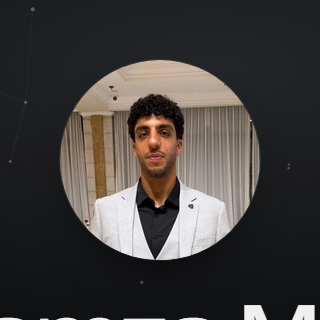
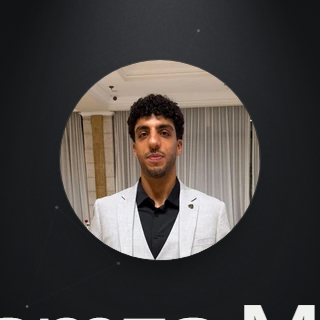
Hero: an overhead shaft, painted rather than clipped
Replaces the ambient ellipse as the light source with the Switchhouse
god-ray recipe: bright and narrow where it enters at the top, spreading and
dissolving downward.

The first three attempts did this with clip-path plus blur and all three
read as grey triangles, which is precisely what the original warns about --
its texture comment says the plane silhouette has to be invisible. A
clip-path fills a cone evenly and then cuts it off; no amount of blur turns
that into light. What makes a shaft read as light is alpha reaching zero at
its own edges, so there is no edge to find. So both falloffs are painted
per-pixel instead, theirs exactly:

  vertical    (1 - v)^2        full at the top, gone by the bottom
  horizontal  sin(pi*u)^1.7    soft sides

The cone is an angle, not a width at the bottom. A percentage width is not
a cone: on a phone it opens too slowly and the shaft fades to nothing while
still a streak. Holding the angle means the buffer has to carry the hero's
aspect, since CSS stretches it, so the buffer is sized from a ResizeObserver
and stays small otherwise.

The old ellipse stays as an ambient wash at 0.05, which keeps the upper half
from reading as flat black around the shaft.

Changed region(s): [[0.375, 0.0, 0.625, 0.125], [0.5938, 0.0938, 0.625, 0.125], [0.0938, 0.0, 0.125, 0.0312]]

diff --git a/src/components/HeroBeam.tsx b/src/components/HeroBeam.tsx
@@ -1,0 +1,137 @@
+import { useEffect, useRef, useState } from 'react'
+import { getTuning, subscribe as subscribeTuning } from '../lib/heroTuning'
+
+/**
+ * A shaft of light entering from above.
+ *
+ * This is the Switchhouse god-ray recipe, painted rather than clipped. The
+ * distinction matters more than it sounds: a clip-path fills a cone evenly and
+ * then cuts it off, which reads as a grey triangle drawn on the page no matter
+ * how hard it is blurred. What makes a shaft read as light is that its alpha
+ * falls to zero at its own edges, so there is no edge to find.
+ *
+ * Both falloffs are theirs, from the baked beam texture:
+ *
+ *   vertical    (1 - v)^2          full at the top, gone by the bottom
+ *   horizontal  sin(pi*u)^1.7      soft sides, silhouette invisible
+ *
+ * The cone is described by an angle rather than by a width at the bottom. A
+ * width in percent is not a cone: on a phone the same percentages open far too
+ * slowly and the shaft fades to nothing while it is still a streak. An angle
+ * behaves like light does, and a narrow viewport simply crops it.
+ *
+ * Holding the angle means the buffer's aspect has to track the hero's, since
+ * CSS stretches the result. The buffer is otherwise kept small on purpose: the
+ * falloffs are low frequency and survive the upscale, and the grain wants
+ * softening rather than resolving.
+ */
+
+/** Buffer height. Width follows the hero's aspect, within these bounds. */
+const BUFFER_H = 600
+const MIN_W = 200
+const MAX_W = 1200
+
+/** Cool silver, matching the ambient wash it sits in. */
+const RGB = [200, 205, 212]
+
+export default function HeroBeam() {
+  const host = useRef<HTMLDivElement>(null)
+  const canvas = useRef<HTMLCanvasElement>(null)
+
+  // Client-only: the prerendered markup and first client render agree on an
+  // empty container, and the canvas appears on the pass after mount.
+  const [mounted, setMounted] = useState(false)
+  useEffect(() => setMounted(true), [])
+
+  useEffect(() => {
+    const el = canvas.current
+    const box = host.current
+    if (!el || !box) return
+
+    const ctx = el.getContext('2d')
+    if (!ctx) return
+
+    let width = 0
+
+    const paint = () => {
+      if (!width) return
+
+      const { beamTop, beamAngle, beamHeight, beamStrength, beamGrain } = getTuning()
+
+      const img = ctx.createImageData(width, BUFFER_H)
+      const data = img.data
+
+      const cx = width / 2
+      const topHalf = (beamTop / 100) * width * 0.5
+      const reach = beamHeight / 100
+
+      // One pixel of buffer height is one pixel of buffer width, because the
+      // buffer carries the hero's aspect. That is what makes the angle real.
+      const slope = Math.tan((beamAngle * Math.PI) / 180)
+
+      for (let y = 0; y < BUFFER_H; y++) {
+        const v = y / BUFFER_H
+
+        // Past the beam's reach there is nothing to draw. Leaving these pixels
+        // at alpha 0 is what lets the shaft end in air rather than at a line.
+        if (v > reach) continue
+
+        const vv = v / reach
+        const vf = (1 - vv) * (1 - vv)
+        const half = topHalf + y * slope
+
+        const from = Math.max(0, Math.ceil(cx - half))
+        const to = Math.min(width - 1, Math.floor(cx + half))
+
+        for (let x = from; x <= to; x++) {
+          const u = (x - cx) / half
+
+          // sin over the beam's own width, so the falloff tracks the cone as it
+          // widens instead of being fixed to the buffer.
+          const hf = Math.pow(Math.sin(Math.PI * ((u + 1) / 2)), 1.7)
+
+          const grain = 1 - beamGrain + beamGrain * Math.random()
+          const a = beamStrength * vf * hf * grain
+
+          const i = (y * width + x) * 4
+          data[i] = RGB[0]
+          data[i + 1] = RGB[1]
+          data[i + 2] = RGB[2]
+          data[i + 3] = Math.round(a * 255)
+        }
+      }
+
+      ctx.putImageData(img, 0, 0)
+    }
+
+    const resize = () => {
+      const w = box.clientWidth
+      const h = box.clientHeight
+      if (!w || !h) return
+
+      const next = Math.min(MAX_W, Math.max(MIN_W, Math.round((w / h) * BUFFER_H)))
+      if (next === width) return
+
+      width = next
+      el.width = width
+      el.height = BUFFER_H
+      paint()
+    }
+
+    const ro = new ResizeObserver(resize)
+    ro.observe(box)
+    resize()
+
+    const unsubscribe = subscribeTuning(paint)
+    return () => {
+      ro.disconnect()
+      unsubscribe()
+    }
+  }, [mounted])
+
+  return (
+    <div className="hero-beam" ref={host} aria-hidden="true">
+      {mounted && <canvas ref={canvas} />}
+    </div>
+  )
+}

diff --git a/src/lib/heroTuning.ts b/src/lib/heroTuning.ts
@@ -47,6 +47,13 @@ export type Tuning = {
   // particle field
   particlePreset: number
 
+  // overhead beam (canvas)
+  beamTop: number
+  beamAngle: number
+  beamHeight: number
+  beamStrength: number
+  beamGrain: number
+
   // scratch (canvas)
   brushSize: number
   idleDelay: number
@@ -101,6 +108,14 @@ export const DEFAULTS: Tuning = {
   // Constellation, the first of the ten.
   particlePreset: 0,
 
+  // A narrow aperture, as a percentage of the hero's width, opening at a fixed
+  // angle from there. Reach is a percentage of the hero's height.
+  beamTop: 12,
+  beamAngle: 28,
+  beamHeight: 94,
+  beamStrength: 0.3,
+  beamGrain: 0.14,
+
   brushSize: 26,
   idleDelay: 2.5,
   resolveTime: 0.7,
@@ -111,7 +126,9 @@ export const DEFAULTS: Tuning = {
   glowY: 20,
   glowRX: 80,
   glowRY: 50,
-  glowAlpha: 0.13,
+  // Ambient only now: the shaft is the light source, and this just keeps the
+  // upper half from reading as flat black behind it.
+  glowAlpha: 0.05,
   glowDrift: 4,
 
   bg: '#0c0d0f',
@@ -133,6 +150,11 @@ export const DEFAULTS: Tuning = {
  */
 const CANVAS_KEYS = [
   'particlePreset',
+  'beamTop',
+  'beamAngle',
+  'beamHeight',
+  'beamStrength',
+  'beamGrain',
   // The particle colour is handed to the engine, not to a stylesheet. It has to
   // bake alongside the preset or a baked value would sit in CSS being read by
   // nothing while the field kept using the default.

diff --git a/src/styles.css b/src/styles.css
@@ -203,9 +203,27 @@ a {
     ellipse var(--h-glow-rx, 80%) var(--h-glow-ry, 50%) at
       calc(var(--h-glow-x, 50%) + var(--gx, 0vw))
       calc(var(--h-glow-y, 20%) + var(--gy, 0vh)),
-    rgba(200, 205, 212, var(--h-glow-a, 0.13)) 0%,
+    rgba(200, 205, 212, var(--h-glow-a, 0.05)) 0%,
     rgba(200, 205, 212, 0) 70%
   );
+}
+
+/* --- overhead light ---
+   The shaft, painted by HeroBeam. The buffer is small and deliberately
+   stretched: the falloffs are low frequency so they upscale cleanly, and the
+   grain wants softening rather than resolving.                               */
+
+.hero-beam {
+  position: absolute;
+  inset: 0;
+  z-index: 1;
+  pointer-events: none;
+}
+
+.hero-beam canvas {
+  display: block;
+  width: 100%;
+  height: 100%;
 }
 
 /* --- the stack --- */

diff --git a/src/components/HeroTuner.tsx b/src/components/HeroTuner.tsx
@@ -90,6 +90,16 @@ const GROUPS: Group[] = [
     ],
   },
   {
+    title: 'Overhead beam',
+    controls: [
+      { kind: 'range', key: 'beamTop', label: 'Aperture', min: 0, max: 60, step: 1, unit: '%' },
+      { kind: 'range', key: 'beamAngle', label: 'Spread angle', min: 2, max: 60, step: 1, unit: '°' },
+      { kind: 'range', key: 'beamHeight', label: 'Reach', min: 20, max: 100, step: 1, unit: '%' },
+      { kind: 'range', key: 'beamStrength', label: 'Strength', min: 0, max: 0.6, step: 0.01 },
+      { kind: 'range', key: 'beamGrain', label: 'Grain', min: 0, max: 0.5, step: 0.01 },
+    ],
+  },
+  {
     title: 'Portrait',
     controls: [
       { kind: 'range', key: 'portraitSize', label: 'Circle size', min: 110, max: 340, step: 2, unit: 'px' },

diff --git a/src/App.tsx b/src/App.tsx
@@ -5,6 +5,7 @@ import Lenis from 'lenis'
 import Scene from './components/Scene'
 import Magnetic from './components/Magnetic'
 import ParticleField from './components/ParticleField'
+import HeroBeam from './components/HeroBeam'
 import ScratchPortrait from './components/ScratchPortrait'
 import {
   getServerTuning,
@@ -214,6 +215,7 @@ export default function App() {
       <header className="hero" id="top" ref={hero}>
         <ParticleField />
         <div className="hero-glow" ref={glow} aria-hidden="true" />
+        <HeroBeam />
 
         <div className="hero-inner">
           <div className="hero-figure" ref={figure}>
